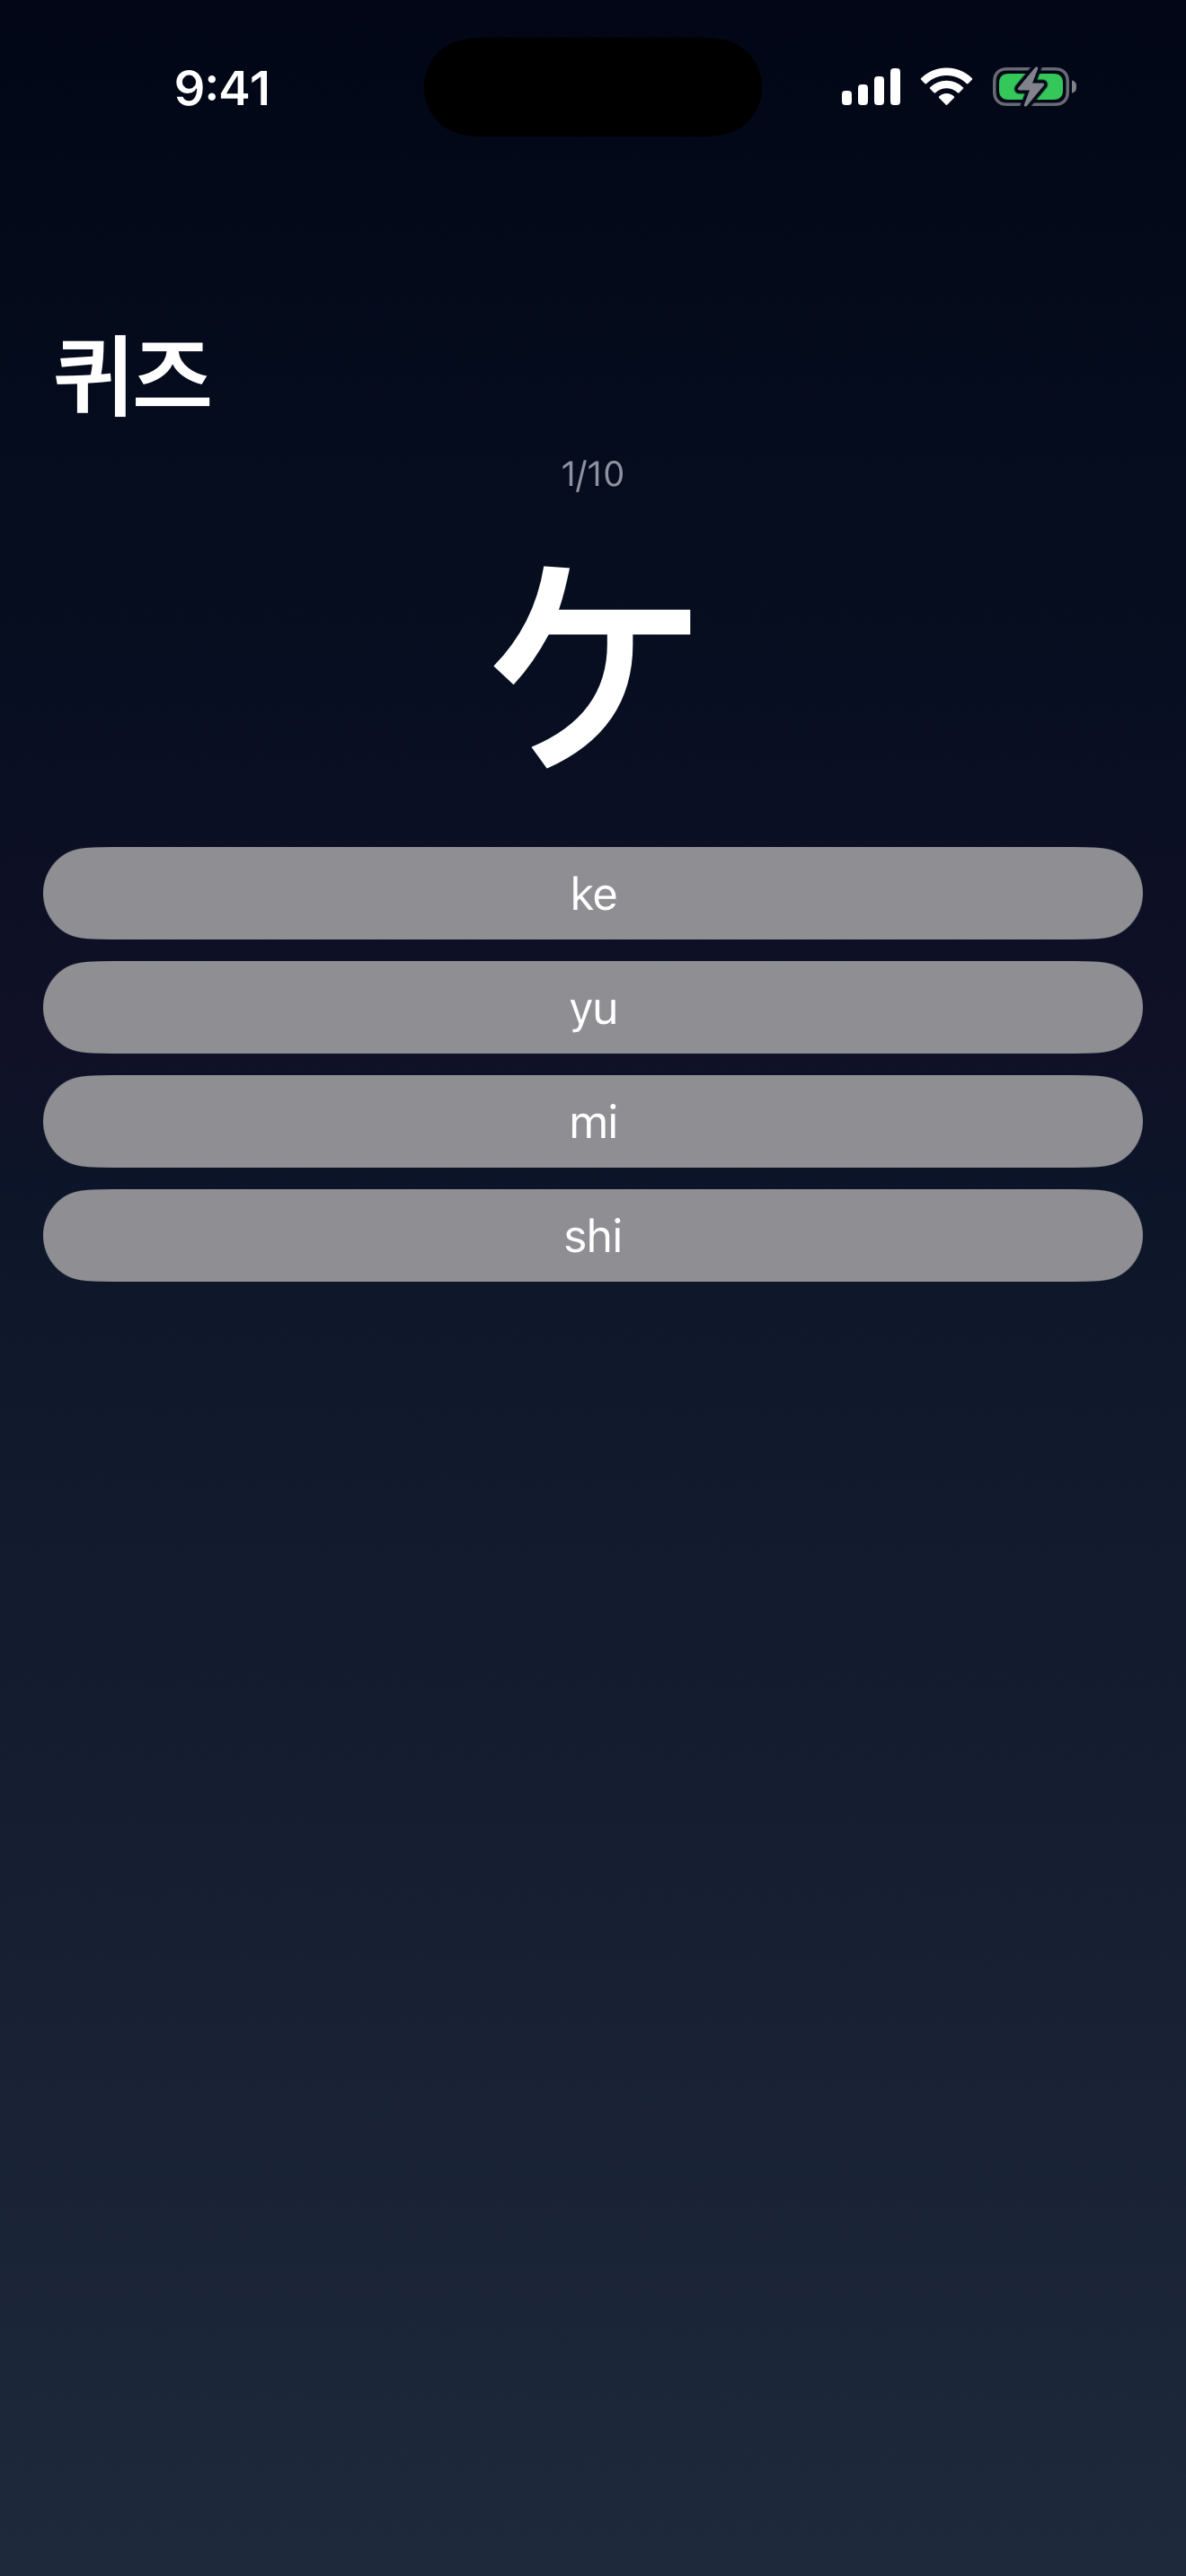
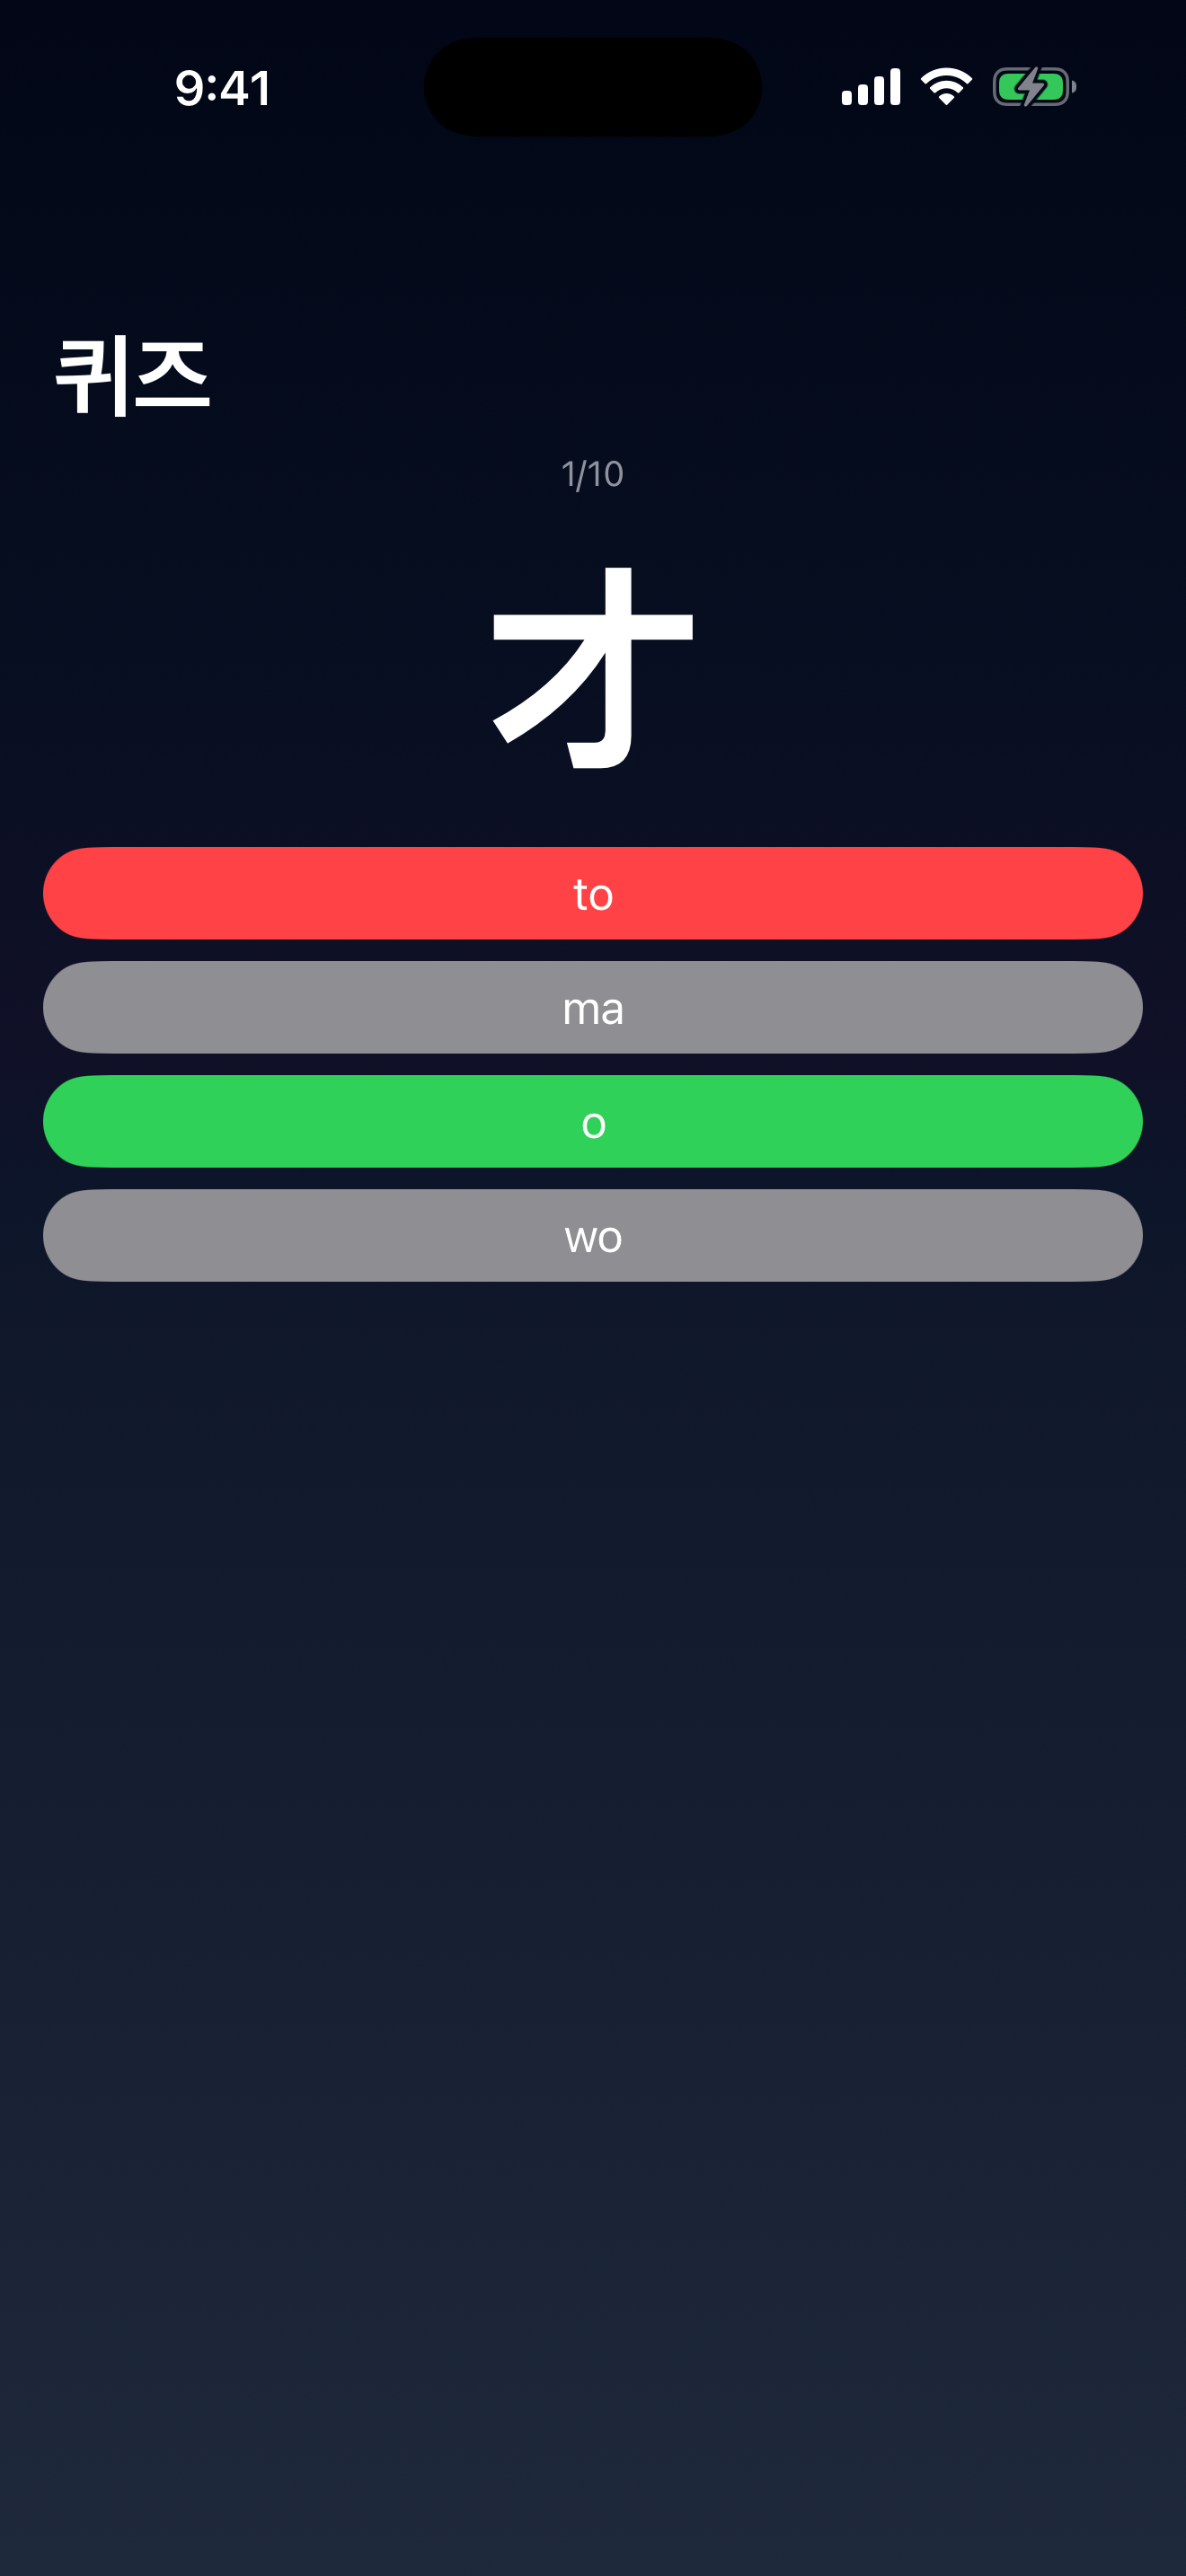
feat: 퀴즈 스크린샷 데모 인자(--reveal) + 랜딩 퀴즈 화면을 정답/오답 표시 컷으로

Changed region(s): [[0.0311, 0.2172, 0.9629, 0.4965]]

diff --git a/App/Views/QuizView.swift b/App/Views/QuizView.swift
@@ -6,6 +6,8 @@ struct QuizView: View {
     let title: String
     let items: [QuizItem]
     let scoreKey: String
+    /// 스크린샷용: 첫 문제에서 오답이 선택된 상태로 띄워 정답/오답 색을 보여준다.
+    var revealDemo = false
 
     private static let questionCount = 10
 
@@ -116,6 +118,11 @@ struct QuizView: View {
             selectedChoice = nil
             isFinished = false
             loadFailed = false
+
+            if revealDemo, let first = questions.first {
+                // 자동 넘김 없이 오답 선택 상태로 고정 (스크린샷용).
+                selectedChoice = first.choices.first { $0 != first.answer }
+            }
         } catch {
             loadFailed = true
         }

diff --git a/App/KanaStudyApp.swift b/App/KanaStudyApp.swift
@@ -26,11 +26,12 @@ struct KanaStudyApp: App {
                 title: script == .hiragana ? "히라가나" : "가타카나",
                 kanaList: KanaData.kana(script: script, groups: [.basic])
             )
-        case .quiz(let script):
+        case .quiz(let script, let reveal):
             QuizView(
                 title: "퀴즈",
                 items: KanaData.kana(script: script, groups: [.basic]).map(\.quizItem),
-                scoreKey: "bestScore.\(script.rawValue)"
+                scoreKey: "bestScore.\(script.rawValue)",
+                revealDemo: reveal
             )
         case .vocab(let kind):
             VocabStudyView(title: kind.title, words: VocabData.words(for: kind), deckKind: kind)

diff --git a/App/LaunchRoute.swift b/App/LaunchRoute.swift
@@ -6,7 +6,7 @@ import KanaCore
 enum LaunchRoute: Equatable {
     case study(KanaScript)
     case browse(KanaScript)
-    case quiz(KanaScript)
+    case quiz(KanaScript, reveal: Bool)
     case vocab(VocabDeckKind)
 
     static func parse(
@@ -20,7 +20,7 @@ enum LaunchRoute: Equatable {
         switch screen {
         case "study": return .study(script)
         case "browse": return .browse(script)
-        case "quiz": return .quiz(script)
+        case "quiz": return .quiz(script, reveal: arguments.contains("--reveal"))
         case "vocab":
             let kind = Self.value(of: "--deck", in: arguments)
                 .flatMap(VocabDeckKind.init(rawValue:)) ?? .jlptN3